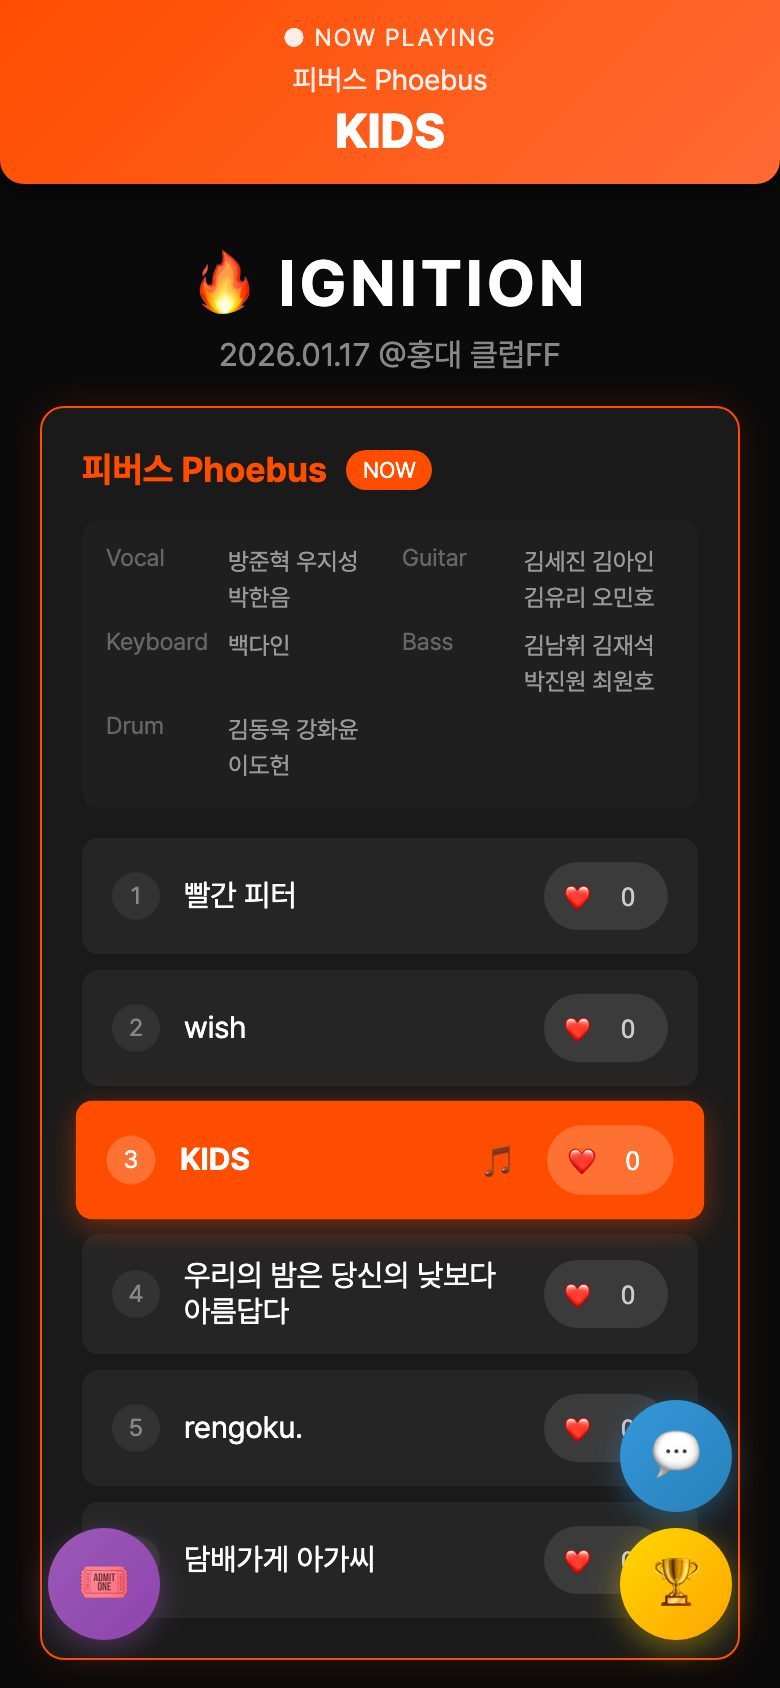
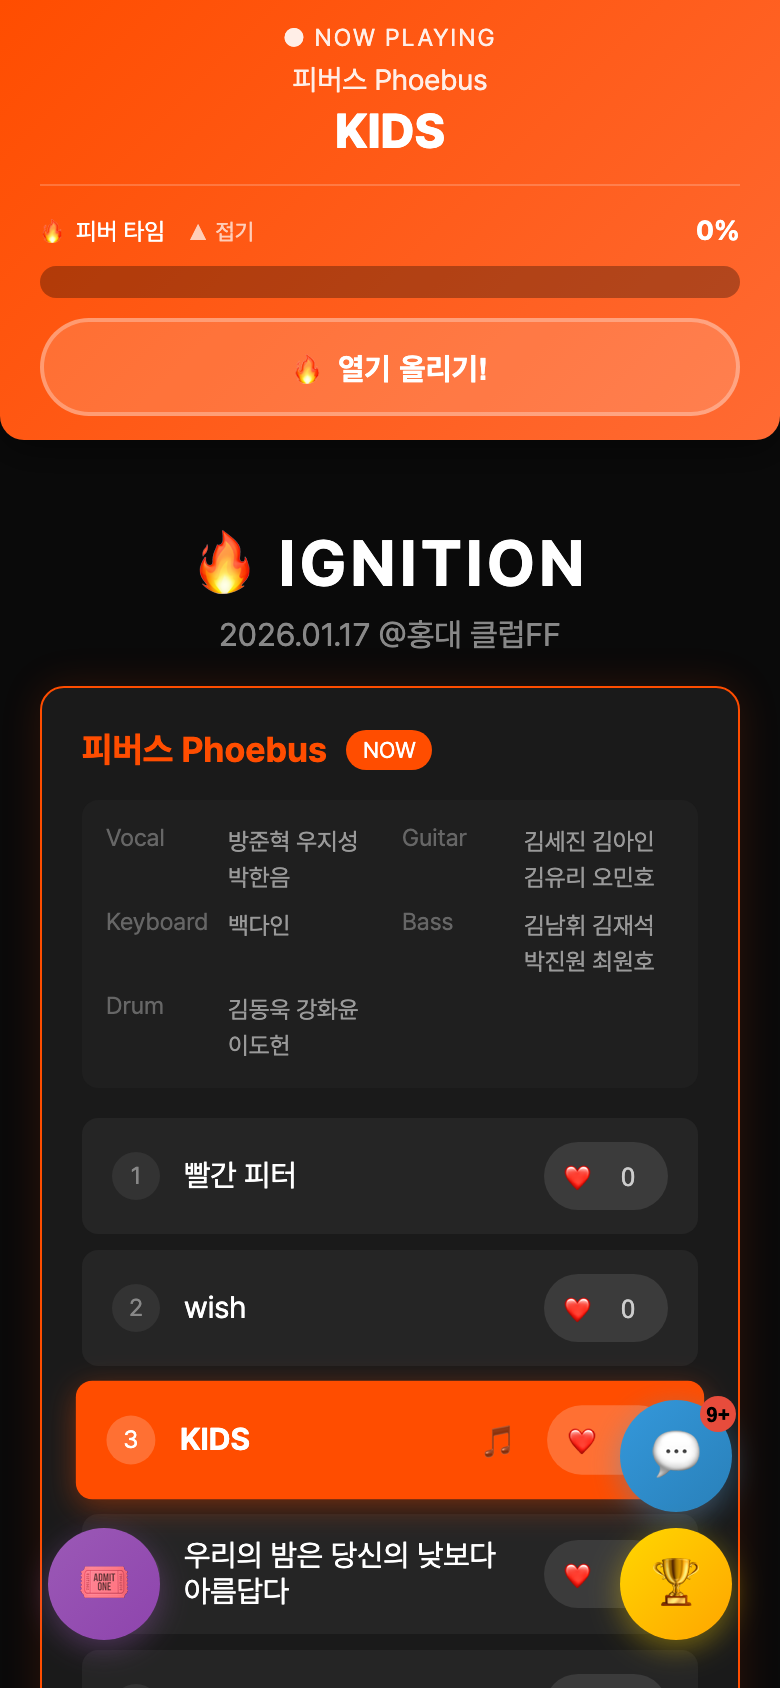
피버 타임(열기 게이지) 복원 및 당일 제거 원인 수정
- 관객 게이지와 열기 올리기 버튼, 폭발 이펙트, 관리자 컨트롤 복원
- MAX 기록과 채팅 알림을 transaction으로 한 클라이언트만 남기도록 수정 (접속자 수만큼 알림 도배되던 문제)
- 5분짜리 전체 화면 box-shadow 애니메이션을 4초 페이드 오버레이로 교체 (모바일 성능)
- 상단 고정 바 높이를 측정해 본문 여백 동기화 (게이지로 셋리스트 상단이 가려지던 문제)
- 기본 목표값 300으로 통일, 첫 스냅샷에서는 이펙트 재생 생략
- 참여 일괄 열기/닫기와 해시 비밀번호 구조에 맞춰 통합
- database.rules.json에 hypeTarget, hypeCount, hypeExplodedTeams 규칙 추가
- README 기능/설계 결정/DB 경로표 갱신, 스크린샷 06-fever.png 추가

Claude-Session: https://claude.ai/code/session_01WZFdzfPyQBWLyZ2d1dbTYd

diff --git a/setlist.html b/setlist.html
@@ -25,6 +25,30 @@
         .now-playing-team { font-size: 0.9rem; opacity: 0.9; }
         .now-playing-song { font-size: 1.5rem; font-weight: 800; margin-top: 3px; }
 
+        /* 피버 타임 (열기 게이지) */
+        .hype-gauge { margin-top: 12px; padding-top: 12px; border-top: 1px solid rgba(255,255,255,0.2); }
+        .hype-gauge-header { display: flex; justify-content: space-between; align-items: center; margin-bottom: 8px; font-size: 0.75rem; }
+        .hype-toggle-btn { background: none; border: none; color: rgba(255,255,255,0.7); font-size: 0.7rem; cursor: pointer; padding: 2px 8px; }
+        .hype-gauge-percent { font-weight: bold; font-size: 0.85rem; }
+        .hype-gauge-content { overflow: hidden; transition: max-height 0.3s ease, opacity 0.3s ease; max-height: 120px; opacity: 1; }
+        .hype-gauge-content.collapsed { max-height: 0; opacity: 0; }
+        .hype-gauge-bar { background: rgba(0,0,0,0.3); border-radius: 10px; height: 16px; overflow: hidden; }
+        .hype-gauge-fill { height: 100%; width: 0%; background: linear-gradient(90deg, #FFD700, #FF6B00, #FF0000); border-radius: 10px; transition: width 0.2s ease; }
+        .hype-gauge-fill.hot { box-shadow: 0 0 12px #FFD700; }
+        .hype-gauge-fill.maxed { animation: hypeGlow 1s ease-in-out infinite alternate; }
+        @keyframes hypeGlow { from { box-shadow: 0 0 8px #FFD700; } to { box-shadow: 0 0 20px #FF6B00; } }
+        .hype-btn { margin-top: 10px; width: 100%; padding: 10px; background: rgba(255,255,255,0.15); border: 2px solid rgba(255,255,255,0.3); border-radius: 25px; color: white; font-size: 0.95rem; font-weight: bold; cursor: pointer; transition: transform 0.1s; }
+        .hype-btn:active { transform: scale(0.95); }
+        .hype-btn:disabled { opacity: 0.6; cursor: default; }
+        .hype-btn.disabled { opacity: 0.4; cursor: not-allowed; pointer-events: none; }
+
+        /* 피버 타임 폭발 이펙트: 4초 동안 한 번만 재생 */
+        .hype-explosion { position: fixed; top: 0; left: 0; right: 0; bottom: 0; z-index: 400; display: none; align-items: center; justify-content: center; pointer-events: none; background: radial-gradient(circle, rgba(255,107,0,0.15), rgba(255,0,0,0.55)); }
+        .hype-explosion.visible { display: flex; animation: explosionFade 4s ease forwards; }
+        .hype-explosion-text { font-size: 3.5rem; font-weight: 900; color: white; text-shadow: 0 0 30px #FFD700, 0 0 60px #FF6B00; animation: explosionPop 0.6s ease; }
+        @keyframes explosionFade { 0% { opacity: 0; } 10% { opacity: 1; } 75% { opacity: 1; } 100% { opacity: 0; } }
+        @keyframes explosionPop { 0% { transform: scale(0.5) rotate(-6deg); } 60% { transform: scale(1.3) rotate(4deg); } 100% { transform: scale(1) rotate(0); } }
+
         /* 셋리스트 섹션 */
         .setlist-section { text-align: left; margin-bottom: 30px; }
         .team-block { background: var(--card-bg); border-radius: 12px; padding: 20px; margin-bottom: 15px; border: 1px solid #333; }
@@ -262,8 +286,25 @@
         <div class="now-playing-label">● NOW PLAYING</div>
         <div class="now-playing-team" id="current-team"></div>
         <div class="now-playing-song" id="current-song"></div>
+
+        <!-- 피버 타임 게이지 -->
+        <div class="hype-gauge" id="hype-gauge">
+            <div class="hype-gauge-header">
+                <span>🔥 피버 타임 <button class="hype-toggle-btn" id="hype-toggle-btn" onclick="toggleHypeGauge()">▲ 접기</button></span>
+                <span class="hype-gauge-percent" id="hype-percent">0%</span>
+            </div>
+            <div class="hype-gauge-content" id="hype-gauge-content">
+                <div class="hype-gauge-bar"><div class="hype-gauge-fill" id="hype-fill"></div></div>
+                <button class="hype-btn" id="hype-btn" onclick="addHype()">🔥 열기 올리기!</button>
+            </div>
+        </div>
     </div>
 </section>
+
+<!-- 피버 타임 폭발 이펙트 -->
+<div class="hype-explosion" id="hype-explosion">
+    <div class="hype-explosion-text">🔥 MAX! 🔥</div>
+</div>
 
 <div class="container">
 
@@ -323,6 +364,19 @@
                 <button class="special-btn" id="chat-visible-btn" style="color:#9b59b6;" onclick="toggleChatVisible()">👁 채팅 숨기기</button>
             </div>
             <button class="special-btn" style="width:100%; margin-top:10px; color:#e74c3c;" onclick="resetChat()">🗑 채팅 전체 삭제</button>
+        </div>
+
+        <!-- 피버 타임 관리자 컨트롤 -->
+        <div style="margin-top: 20px; padding-top: 15px; border-top: 1px solid #333;">
+            <div style="font-size: 0.85rem; color: #888; margin-bottom: 10px;">🔥 피버 타임 관리 <span id="admin-hype-target" style="color: #FF6B00;">(목표: 300)</span></div>
+            <div class="special-btn-grid">
+                <button class="special-btn" style="color:#FFD700;" onclick="setHypeTarget()">🎯 목표값 설정</button>
+                <button class="special-btn" style="color:#ff6b81;" onclick="resetHype()">🗑 게이지 전체 초기화</button>
+            </div>
+            <div class="special-btn-grid" style="margin-top:10px;">
+                <button class="special-btn" style="color:#FF4500;" onclick="forceHypeMax()">🔥 불지르기 (현재 팀 MAX)</button>
+                <button class="special-btn" style="color:#888;" onclick="clearHypeTeam()">💨 불끄기 (현재 팀 해제)</button>
+            </div>
         </div>
     </section>
 </div>
@@ -614,6 +668,9 @@
             currentTeam = '';
             currentSong = '';
         }
+        if (currentTeam !== prevTeam) {
+            watchTeamHype(currentTeam && currentTeam !== '🎉' ? currentTeam : null);
+        }
         updateDisplay();
     });
 
@@ -658,7 +715,18 @@
                 activeItem.scrollIntoView({ behavior: 'smooth', block: 'center' });
             }
         }
+
+        // 피버 타임 게이지는 곡이 연주 중일 때만
+        document.getElementById('hype-gauge').style.display = (currentTeam && currentTeam !== '🎉') ? '' : 'none';
+        syncNowPlayingPadding();
     }
+
+    // 상단 고정 바 높이만큼 본문 여백을 맞춘다 (게이지 접기/펼치기로 높이가 변함)
+    function syncNowPlayingPadding() {
+        const bar = document.getElementById('now-playing');
+        document.body.style.paddingTop = bar.classList.contains('visible') ? (bar.offsetHeight + 20) + 'px' : '';
+    }
+    window.addEventListener('resize', syncNowPlayingPadding);
 
     // URL 파라미터 확인
     const urlParams = new URLSearchParams(window.location.search);
@@ -1461,6 +1529,159 @@
         }
     });
 
+    // ========== 피버 타임 (열기 게이지) ==========
+    // 관객이 버튼을 연타해 현재 팀의 게이지를 채우고, 목표에 닿으면 전 관객 화면에
+    // 폭발 이펙트가 한 번 터진다. 팀당 한 번만 터지며 기록은 hypeExplodedTeams에 남는다.
+    const HYPE_DEFAULT_TARGET = 300;
+    let hypeTarget = HYPE_DEFAULT_TARGET;
+    let hypeCount = 0;              // 현재 팀 게이지 (로컬 즉시 반영 포함)
+    let hypeBuffer = 0;
+    let hypeFlushTimeout = null;
+    let hypeExplosionTimer = null;
+    let hypeExplodedTeams = {};
+    let hypeExplodedLoaded = false; // 첫 스냅샷에서는 이펙트를 재생하지 않는다 (늦게 접속한 관객 보호)
+    let hypeListenerTeam = null;
+    let hypeGaugeCollapsed = false;
+
+    database.ref('hypeTarget').on('value', (snapshot) => {
+        hypeTarget = snapshot.val() || HYPE_DEFAULT_TARGET;
+        updateHypeUI();
+    });
+
+    database.ref('hypeExplodedTeams').on('value', (snapshot) => {
+        const prev = hypeExplodedTeams;
+        hypeExplodedTeams = snapshot.val() || {};
+        if (hypeExplodedLoaded && currentTeam && hypeExplodedTeams[currentTeam] && !prev[currentTeam]) {
+            showHypeExplosion();
+        }
+        hypeExplodedLoaded = true;
+        updateHypeUI();
+    });
+
+    // 팀이 바뀌면 그 팀의 게이지만 구독한다
+    function watchTeamHype(team) {
+        if (hypeListenerTeam) database.ref('hypeCount/' + hypeListenerTeam).off();
+        hypeListenerTeam = team;
+        hypeCount = 0;
+        hypeBuffer = 0;
+        clearTimeout(hypeFlushTimeout);
+        updateHypeUI();
+        if (!team) return;
+
+        database.ref('hypeCount/' + team).on('value', (snapshot) => {
+            const serverCount = snapshot.val();
+            // 하트와 같은 규칙: 서버 값이 로컬보다 클 때만 반영해 숫자가 뒤로 튀지 않게 한다.
+            // 값이 지워졌으면(관리자 초기화) 0으로 되돌린다.
+            if (serverCount === null || serverCount > hypeCount) hypeCount = serverCount || 0;
+            updateHypeUI();
+            // 서버가 확인한 값으로만 MAX를 판정한다
+            if (serverCount >= hypeTarget && !hypeExplodedTeams[team]) markHypeMax(team);
+        });
+    }
+
+    // MAX 기록은 transaction으로 한 클라이언트만 남기고, 그 클라이언트만 채팅 알림을 올린다
+    function markHypeMax(team) {
+        database.ref('hypeExplodedTeams/' + team).transaction(current => current ? undefined : true, (error, committed) => {
+            if (committed) {
+                database.ref('chat').push({
+                    type: 'notice',
+                    text: `🔥🔥🔥 ${team.split(' ')[0]} 피버 타임 MAX! 🔥🔥🔥`,
+                    timestamp: Date.now()
+                });
+            }
+        });
+    }
+
+    function updateHypeUI() {
+        const maxed = !!(currentTeam && hypeExplodedTeams[currentTeam]);
+        const percent = maxed ? 100 : (hypeTarget > 0 ? Math.min(100, Math.round(hypeCount / hypeTarget * 100)) : 0);
+        const fill = document.getElementById('hype-fill');
+        const btn = document.getElementById('hype-btn');
+        const label = maxed ? '✓ 피버 타임 MAX 달성!' : '🔥 열기 올리기!';
+
+        document.getElementById('hype-percent').innerText = percent + '%';
+        fill.style.width = percent + '%';
+        fill.classList.toggle('hot', !maxed && percent >= 80);
+        fill.classList.toggle('maxed', maxed);
+        btn.disabled = maxed;
+        if (btn.innerText !== label) btn.innerText = label;
+
+        const adminTarget = document.getElementById('admin-hype-target');
+        if (adminTarget) adminTarget.innerText = `(목표: ${hypeTarget})`;
+        syncNowPlayingPadding();
+    }
+
+    function toggleHypeGauge() {
+        hypeGaugeCollapsed = !hypeGaugeCollapsed;
+        document.getElementById('hype-gauge-content').classList.toggle('collapsed', hypeGaugeCollapsed);
+        document.getElementById('hype-toggle-btn').textContent = hypeGaugeCollapsed ? '▼ 펼치기' : '▲ 접기';
+        syncNowPlayingPadding();
+        setTimeout(syncNowPlayingPadding, 350); // 접힘 애니메이션이 끝난 뒤 한 번 더
+    }
+
+    // 열기 올리기 (연타 가능, 300ms 모아서 전송)
+    function addHype() {
+        if (!interactionEnabled) return;
+        if (!hypeListenerTeam || hypeExplodedTeams[hypeListenerTeam]) return;
+
+        hypeCount++;
+        hypeBuffer++;
+        updateHypeUI();
+
+        clearTimeout(hypeFlushTimeout);
+        hypeFlushTimeout = setTimeout(flushHype, 300);
+    }
+
+    function flushHype() {
+        if (hypeBuffer > 0 && hypeListenerTeam) {
+            const count = hypeBuffer;
+            hypeBuffer = 0;
+            database.ref('hypeCount/' + hypeListenerTeam).transaction(current => (current || 0) + count);
+        }
+    }
+
+    function showHypeExplosion() {
+        const el = document.getElementById('hype-explosion');
+        el.classList.remove('visible');
+        void el.offsetWidth; // 애니메이션 재시작
+        el.classList.add('visible');
+        clearTimeout(hypeExplosionTimer);
+        hypeExplosionTimer = setTimeout(() => el.classList.remove('visible'), 4000);
+    }
+
+    // 관리자: 목표값 설정
+    async function setHypeTarget() {
+        if (!(await askResetPassword('관리자 비밀번호를 입력하세요:'))) return;
+        const input = prompt('피버 타임 목표값을 입력하세요 (현재: ' + hypeTarget + '):', hypeTarget);
+        const target = parseInt(input, 10);
+        if (input === null || isNaN(target) || target <= 0) return;
+        database.ref('hypeTarget').set(target);
+        alert('목표값이 ' + target + '(으)로 설정되었습니다.');
+    }
+
+    // 관리자: 모든 팀 게이지와 MAX 기록 초기화
+    async function resetHype() {
+        if (!(await askResetPassword('관리자 비밀번호를 입력하세요:'))) return;
+        if (!confirm('모든 팀의 게이지와 피버 타임 MAX 기록을 초기화할까요?')) return;
+        database.ref('hypeExplodedTeams').remove();
+        database.ref('hypeCount').remove();
+        alert('피버 타임이 초기화되었습니다.');
+    }
+
+    // 관리자: 현재 팀을 강제로 MAX (전 관객 화면에 이펙트)
+    function forceHypeMax() {
+        if (!hypeListenerTeam) { alert('먼저 연주 중인 곡을 선택하세요.'); return; }
+        if (hypeExplodedTeams[hypeListenerTeam]) { alert('이미 MAX인 팀입니다.'); return; }
+        markHypeMax(hypeListenerTeam);
+    }
+
+    // 관리자: 현재 팀 MAX 해제와 게이지 0 (다시 올릴 수 있게)
+    function clearHypeTeam() {
+        if (!hypeListenerTeam) { alert('먼저 연주 중인 곡을 선택하세요.'); return; }
+        database.ref('hypeExplodedTeams/' + hypeListenerTeam).remove();
+        database.ref('hypeCount/' + hypeListenerTeam).remove();
+    }
+
     // ========== 관객 참여 기능 일괄 관리 ==========
     // 관객 참여 기능 상태 감시
     database.ref('interactionEnabled').on('value', (snapshot) => {
@@ -1489,6 +1710,9 @@
 
         // 하트 버튼 상태
         updateHeartButtonsState();
+
+        // 피버 타임 버튼 상태
+        document.getElementById('hype-btn').classList.toggle('disabled', !interactionEnabled);
 
         // 채팅 상태
         updateChatInteractionState();

diff --git a/README.md b/README.md
@@ -12,9 +12,9 @@
 |---|---|---|
 | ![셋리스트](docs/screenshots/01-setlist.png) | ![리더보드](docs/screenshots/02-leaderboard.png) | ![채팅](docs/screenshots/03-chat.png) |
 
-| 추첨 참여 | 관리자 컨트롤 |
-|---|---|
-| ![추첨](docs/screenshots/04-raffle.png) | ![관리자](docs/screenshots/05-admin.png) |
+| 추첨 참여 | 피버 타임 MAX | 관리자 컨트롤 |
+|---|---|---|
+| ![추첨](docs/screenshots/04-raffle.png) | ![피버 타임](docs/screenshots/06-fever.png) | ![관리자](docs/screenshots/05-admin.png) |
 
 ## 주요 기능
 
@@ -24,6 +24,7 @@
 - 팀, 팀원(파트별 이름), 셋리스트를 한눈에 본다. 4개 팀, 팀당 6곡.
 - 곡마다 하트를 보낸다. 누르는 즉시 숫자가 오르고 플로팅 하트 애니메이션이 뜬다. 횟수 제한은 없다.
 - 하트 리더보드로 TOP 10 곡을 본다. 1위부터 3위는 메달로 표시된다.
+- 피버 타임 게이지를 채운다. Now Playing 바 아래의 "열기 올리기" 버튼을 연타하면 현재 팀의 게이지가 차오르고, 80%부터 빛나기 시작해 목표(기본 300)에 닿으면 모든 관객 화면에 "MAX!" 폭발 이펙트가 터지며 채팅에 알림이 올라간다. 팀당 한 번만 터진다. 게이지는 접어둘 수 있다.
 - 실시간 채팅에 참여한다. 30자 제한, 10초 쿨타임, 최근 20개 표시, 전체 보기 지원. 곡이 바뀌면 "지금 시작한 곡" 시스템 알림이 채팅에 올라오고, 채팅창을 닫아둔 동안 온 메시지는 안 읽은 배지로 표시된다.
 - 후원 버튼을 누른다. 실제 결제 없이 채팅에 후원 알림만 올라가는 응원용 기능이다.
 - 추첨에 참여한다. 참여하면 001부터 순번을 받고, 같은 기기에서는 한 번만 참여할 수 있다. 관리자가 추첨하면 모든 관객 화면에 당첨 번호가 동시에 뜨고, 내 번호와 대조해 당첨자에게는 축하 화면이 나온다.
@@ -34,6 +35,7 @@
 - 하트, 채팅, 추첨 참여를 한 번에 열거나 닫는다. 기본값은 닫힘이라 공연 시작 전 오작동을 막는다.
 - 추첨을 실행하고 참여자를 초기화한다.
 - 채팅을 비활성화하거나 채팅창 자체를 숨기고, 특정 메시지를 숨기거나 전체를 삭제한다.
+- 피버 타임 목표값을 바꾸고, 현재 팀을 강제로 MAX로 만들거나(불지르기) 해제하고(불끄기), 전체 게이지를 초기화한다.
 - 하트를 전체 초기화한다. 초기화류 작업은 별도 비밀번호를 한 번 더 요구한다.
 
 ## 기술 스택
@@ -104,6 +106,9 @@ Realtime Database 경로
 |---|---|
 | `liveStatus` | 현재 팀과 곡, 갱신 시각 |
 | `hearts/{songId}` | 곡별 하트 수. songId는 팀명과 곡명을 base64로 만든 키 |
+| `hypeCount/{팀명}` | 팀별 피버 타임 게이지 |
+| `hypeExplodedTeams/{팀명}` | 팀별 MAX 달성 여부 |
+| `hypeTarget` | 피버 타임 목표값 (없으면 300) |
 | `raffle/nextNumber` | 다음 발급 번호 |
 | `raffle/participants/{번호}` | 참여자 목록 |
 | `raffle/winner` | 당첨 번호 |
@@ -128,6 +133,16 @@ Firebase Realtime Database로 서버 없는 동기화
 관객 참여 일괄 열기/닫기
 
 하트, 채팅, 추첨은 기본값이 닫힘입니다. 리허설이나 입장 중에 관객이 먼저 눌러 데이터가 쌓이는 일을 막고, 관리자가 공연 시작 시점에 한 번에 엽니다.
+
+피버 타임의 복원과 수정
+
+피버 타임은 공연 당일 버그와 성능 문제로 관객 쪽 버튼만 떼어낸 채 공연을 치렀고, 공연 뒤 원인을 짚어 고쳐서 되살렸습니다.
+
+- 목표 도달 순간 접속자 전원이 각자 MAX 기록과 채팅 알림을 쓰던 것을, `hypeExplodedTeams/{팀명}`에 transaction을 걸어 한 클라이언트만 기록과 알림을 남기도록 바꿨습니다. 관객 수만큼 알림이 도배되던 문제가 사라집니다.
+- 화면 전체에 5분간 이어지던 box-shadow 애니메이션을 4초짜리 페이드 오버레이로 줄였습니다. 모바일에서 셋리스트 스크롤이 버벅이던 원인이었습니다.
+- 게이지가 들어가면 상단 고정 바가 커지는데 본문 여백은 100px로 고정되어 있어 셋리스트 상단이 가려졌습니다. 바의 실제 높이를 측정해 여백을 맞추고, 게이지를 접고 펼칠 때도 다시 계산합니다.
+- 코드의 기본 목표값(20)과 관리자 화면 표시(300)가 달랐던 것을 300으로 통일했습니다.
+- 늦게 접속한 관객에게 이미 끝난 팀의 폭발 이펙트가 재생되지 않도록, 첫 스냅샷에서는 이펙트를 건너뜁니다.
 
 추첨 번호 발급
 
